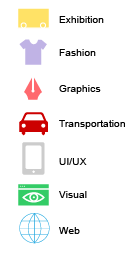
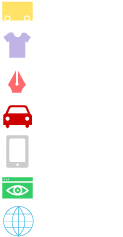
Final
Changes made

diff --git a/final/index.html b/final/index.html
@@ -7,6 +7,7 @@
     <meta name='viewport' content='initial-scale=1,maximum-scale=1,user-scalable=no'/>
     <link href="https://fonts.googleapis.com/css?family=Open+Sans" rel="stylesheet">
     <link href="https://fonts.googleapis.com/css?family=Roboto" rel="stylesheet">
+    <link href="https://fonts.googleapis.com/css?family=Rock+Salt" rel="stylesheet">
     <script src='https://api.tiles.mapbox.com/mapbox-gl-js/v0.44.1/mapbox-gl.js'></script>
     <link href='https://api.tiles.mapbox.com/mapbox-gl-js/v0.44.1/mapbox-gl.css' rel='stylesheet'/>
     <link href=styles.css rel="stylesheet">
@@ -15,41 +16,42 @@
 <body>
     <div id='map'></div>
 
-    <!--Navigation-->
+<!--Navigation-->
     <div class="navbar">
         <section id="title"><a href="https://fxtzhou.github.io/des157/projects/final/index.html">Designers of Color Map</a></section>
 
-        <img id='logo' src="img/logo.png" alt="Logo" width="30px" height="30px">
+        <img id='logo' src="img/logo.png" alt="Logo" width="35px" height="35px">
     </div>
-
-        <!--Dropdown-->
+    
+<!--Dropdown-->
     <div class="navbar">
         <div class="dropdown">
-            <button class="dropbtn" onclick="myFunction()">More Info
+            <button class="dropbtn" onclick="myFunction()">
                 <i class="fa fa-caret-down"></i>
             </button>
-            <div class="dropdown-content" id="myDropdown">
-                <a class="active" href="https://vivmokona.github.io/des157/final/index.html">Home</a>
-                <a href="https://fxtzhou.github.io/des157/projects/final/index.html">About</a>
-                <a href="profile/form.html">Profile</a>
-                <a href="contact/index.html">Contact</a>
-            </div>
         </div>
         </div>
-        
-         <!--Key-->
+    
+    <!--New Nav-->
+<div id="mySidenav" class="sidenav">
+  <a href="javascript:void(0)" class="closebtn" onclick="closeNav()">&times;</a>
+  <a class="active" href="https://vivmokona.github.io/des157/final/index.html">Home</a>
+   <a href="https://fxtzhou.github.io/des157/projects/final/index.html">About</a>
+  <a href="profile/form.html">Profile</a>
+  <a href="contact/index.html">Contact</a>
+    
+      <!--Key-->
         <div class="key">
-               <img id='symbols' src="img/symbols.png" alt="Symbols" width="100px" height="200px">
+               <img id='symbols' src="img/symbols.png" alt="Symbols" width="145px" height="300px">
             <h3>Key</h3>
         </div>
+</div>
+
+<div id="main">
+  <span style="font-size:30px;cursor:pointer" onclick="openNav()">&#9776;</span>
+</div>
         
-    <footer>
-        <a href="../index.html">Home</a>
-        <a href="https://github.com/vivmokona">Github</a>
-        <a href="mailto:vyluu@ucdavis.edu">Contact Me</a>
-        <a href="https://validator.w3.org/check?uri=referer">Valid HTML 5</a>
-        <a href="https://jigsaw.w3.org/css-validator/check/referer">Valid CSS</a>
-    </footer>
+       
 
     <script>
         mapboxgl.accessToken = 'pk.eyJ1Ijoidml2bW9rb25hIiwiYSI6ImNqZG92NGYyeDA4MGQycm80cDljaXEzbDAifQ.s9ln4rd7DomkLRJ4g7FOCA';
@@ -195,7 +197,7 @@
         // Add pop-up
         var popup = new mapboxgl.Popup({closeOnClick: false})
        .setLngLat([-98.5795, 39.8283])
-       .setHTML('<h2>Hello!</h2><h3>Scroll and zoom on the icons to find out designers of color. Then head over to "More Info" to create your own profile.</h3>')
+       .setHTML('<h2>Instructions</h2><h3>Scroll and zoom in on icons to find out Designers of Color. Then head over to the menu to <i>create your own</i> profile!</h3>')
        .addTo(map);
  
         //Add full screen button
@@ -220,7 +222,15 @@
                     .setHTML('<h3>' + marker.properties.title + '</h3><p>' + marker.properties.description + '</p>'))
                 .addTo(map);
         });
+        
+       /* New Nav JS */
+function openNav() {
+    document.getElementById("mySidenav").style.width = "250px";
+}
 
+function closeNav() {
+    document.getElementById("mySidenav").style.width = "0";
+}
     </script>
 
 </body>

diff --git a/final/styles.css b/final/styles.css
@@ -37,30 +37,35 @@ body {
     padding: 0;
 }
 
-
 /*Navigation title*/
 
 #title {
-    font-family: 'Lobster', sans-serif;
+    font-family: 'Rock Salt',
+    cursive;
     color: white;
     cursor: pointer;
-    font-size: 16px;
     position: absolute;
     background-color: inherit;
     margin: 0;
+    top: -10px;
+    left: 40px;
 }
 
 #logo {
     position: absolute;
     background-color: inherit;
     margin: 0;
-    left: 49%;
-    top: 1px;
+    left: .8%;
+    top: 2px;
+}
+
+#logo:hover {
+    background-color: none;
 }
 
 #map {
     position: absolute;
-    top: 3.9%;
+    top: 5.2%;
     bottom: 0;
     width: 100%;
 }
@@ -91,68 +96,24 @@ body {
     cursor: pointer;
 }
 
-/*
-footer {
-    position: fixed;
-    bottom: 0;
-    left: 0;
-    text-align: center;
-    display: block;
-    width: 100%;
-    box-sizing: border-box;
-    background-color: aliceblue;
-
-    transition: color 20s linear;
-    animation: colorshift 30s infinite;
-    transition-timing-function: ease-in;
-
-}
-
-footer a {
-    font-family: 'Roboto', sans-serif;
-    font-size: 14px;
-    margin-bottom: -3px;
-    margin-top: -3px;
-}
-
-a {
-    color: black;
-    text-decoration: none;
-    border-radius: 50px;
-    border-color: white;
-    width: 1.5in;
-    padding: 10px;
-    text-align: center;
-    display: inline-block;
-}*/
-
 /*nav bar code*/
 
-#logo:hover {
-    background-color: none;
-}
-
 .navbar {
+    height: 20px;
     overflow: hidden;
-    /*    background-color: #333;*/
     transition: background-color 5s linear;
     animation: colorshift 80s infinite;
     transition-timing-function: ease-in;
 }
 
 .navbar a {
-
     float: left;
     font-size: 16px;
     color: white;
     text-align: center;
-    padding: 7px 16px;
+    padding-top: 10px;
+    padding-left: 16px;
     text-decoration: none;
-}
-
-.dropdown {
-    float: right;
-    overflow: hidden;
 }
 
 .dropdown .dropbtn {
@@ -161,58 +122,26 @@ a {
     border: none;
     outline: none;
     color: white;
-    padding: 10px 12px;
+    padding: 20px 12px;
     background-color: inherit;
     font-family: inherit;
     margin: 0;
 }
 
-.navbar a:hover,
-.dropdown:hover .dropbtn,
-.dropbtn:focus {
-    background-color: skyblue;
-}
-
-.dropdown-content {
-    display: none;
-    position: absolute;
-    background-color: #f9f9f9;
-    min-width: 160px;
-    box-shadow: 0px 8px 16px 0px rgba(0, 0, 0, 0.2);
-    z-index: 1;
-}
-
-.dropdown-content a {
-    float: none;
-    color: black;
-    padding: 12px 16px;
-    text-decoration: none;
-    display: block;
-    text-align: left;
-}
-
-.dropdown-content a:hover {
-    background-color: #ddd;
-}
-
-.show {
-    display: block;
-}
-
-
 /*key code*/
 
 .key h3 {
+    font-family: 'Roboto', sans-serif;
     position: absolute;
-    left: 40px;
-    top: -33px;
-    color: aliceblue;
+    left: 10px;
+    top: -40px;
+    color: white;
 }
 
 .key {
     position: absolute;
-    right: 110px;
-    bottom: 250px;
+    left: 25px;
+    top: 300px;
 }
 
 #symbols {
@@ -230,4 +159,59 @@ a {
 
 .show {
     display: block;
+}
+
+/* Hamburger Nav */
+
+.sidenav {
+    height: 100%;
+    width: 0;
+    position: fixed;
+    z-index: 1;
+    top: 0;
+    right: 0;
+    background-color: #111;
+    overflow-x: hidden;
+    transition: 0.5s;
+    padding-top: 60px;
+}
+
+.sidenav a {
+    padding: 8px 8px 8px 32px;
+    text-decoration: none;
+    font-size: 25px;
+    color: #818181;
+    display: block;
+    transition: 0.3s;
+}
+
+.sidenav a:hover {
+    color: #f1f1f1;
+}
+
+.sidenav .closebtn {
+    position: absolute;
+    top: 0;
+    right: 25px;
+    font-size: 36px;
+    margin-left: 50px;
+}
+
+#main {
+    position: absolute;
+    top: -17px;
+    right: 0;
+    transition: margin-left .5s;
+    padding: 16px;
+}
+
+/*Changes inside nav*/
+
+@media screen and (max-height: 450px) {
+    .sidenav {
+        padding-top: 15px;
+    }
+    .sidenav a {
+        font-size: 18px;
+    }
 }
